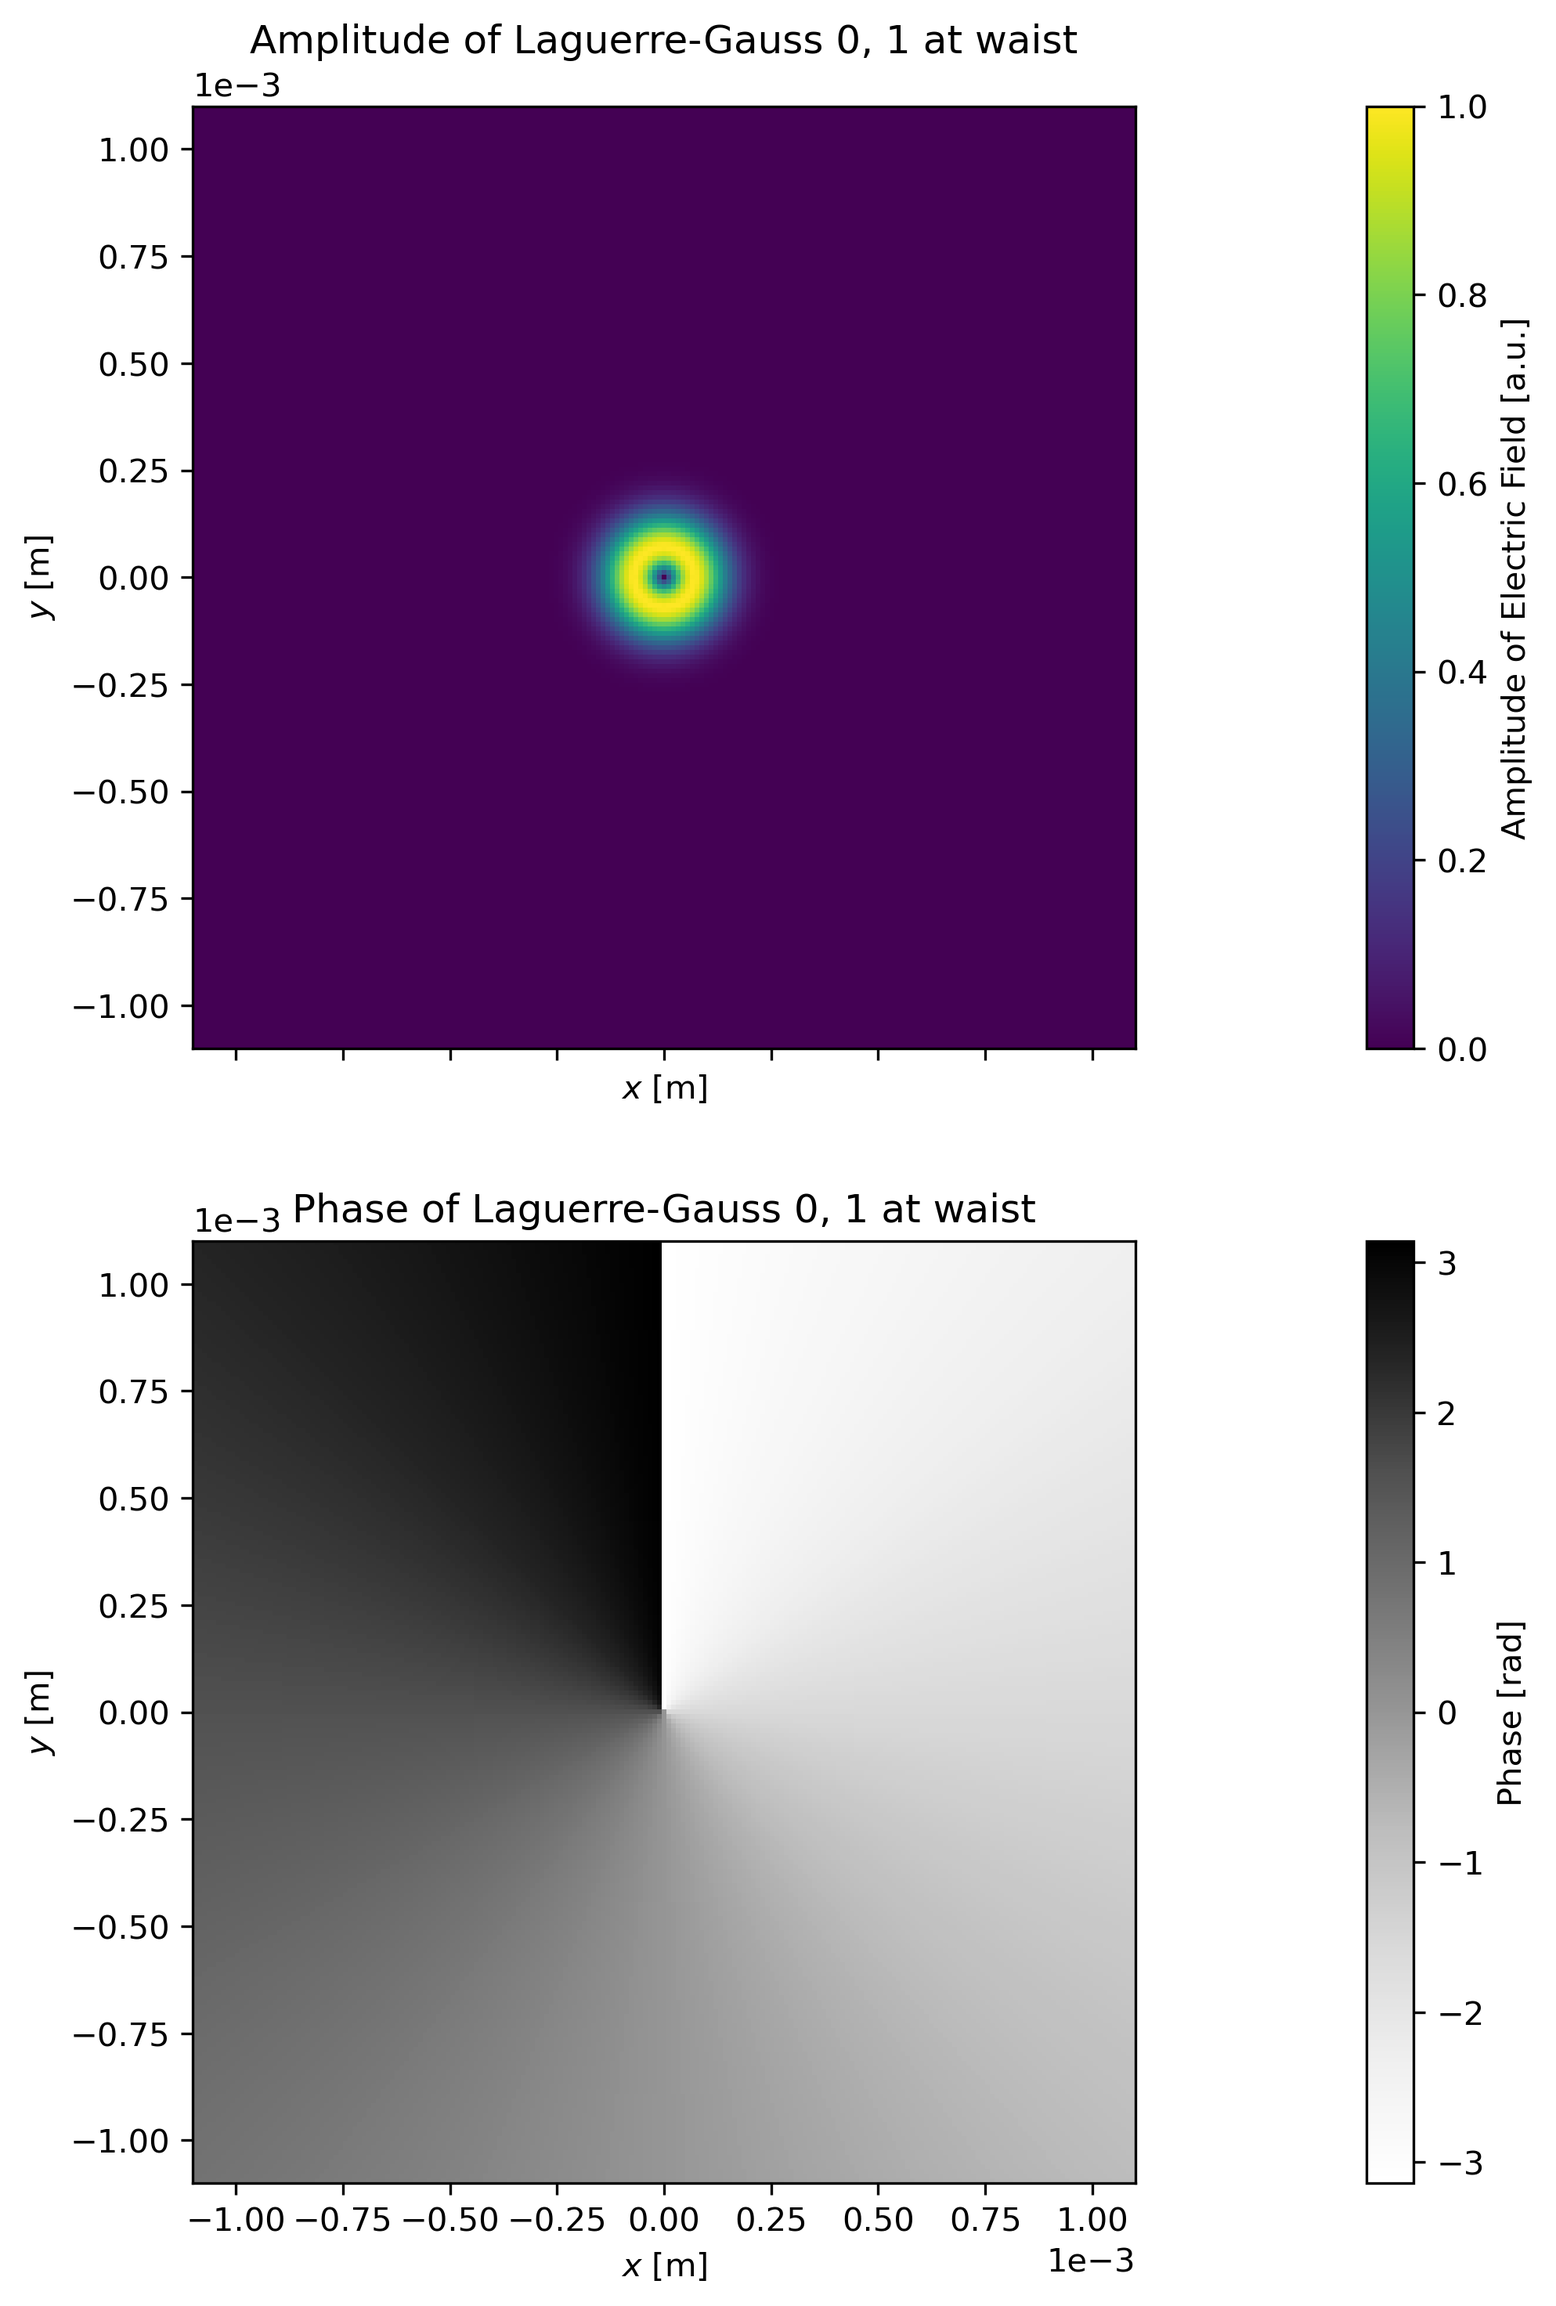
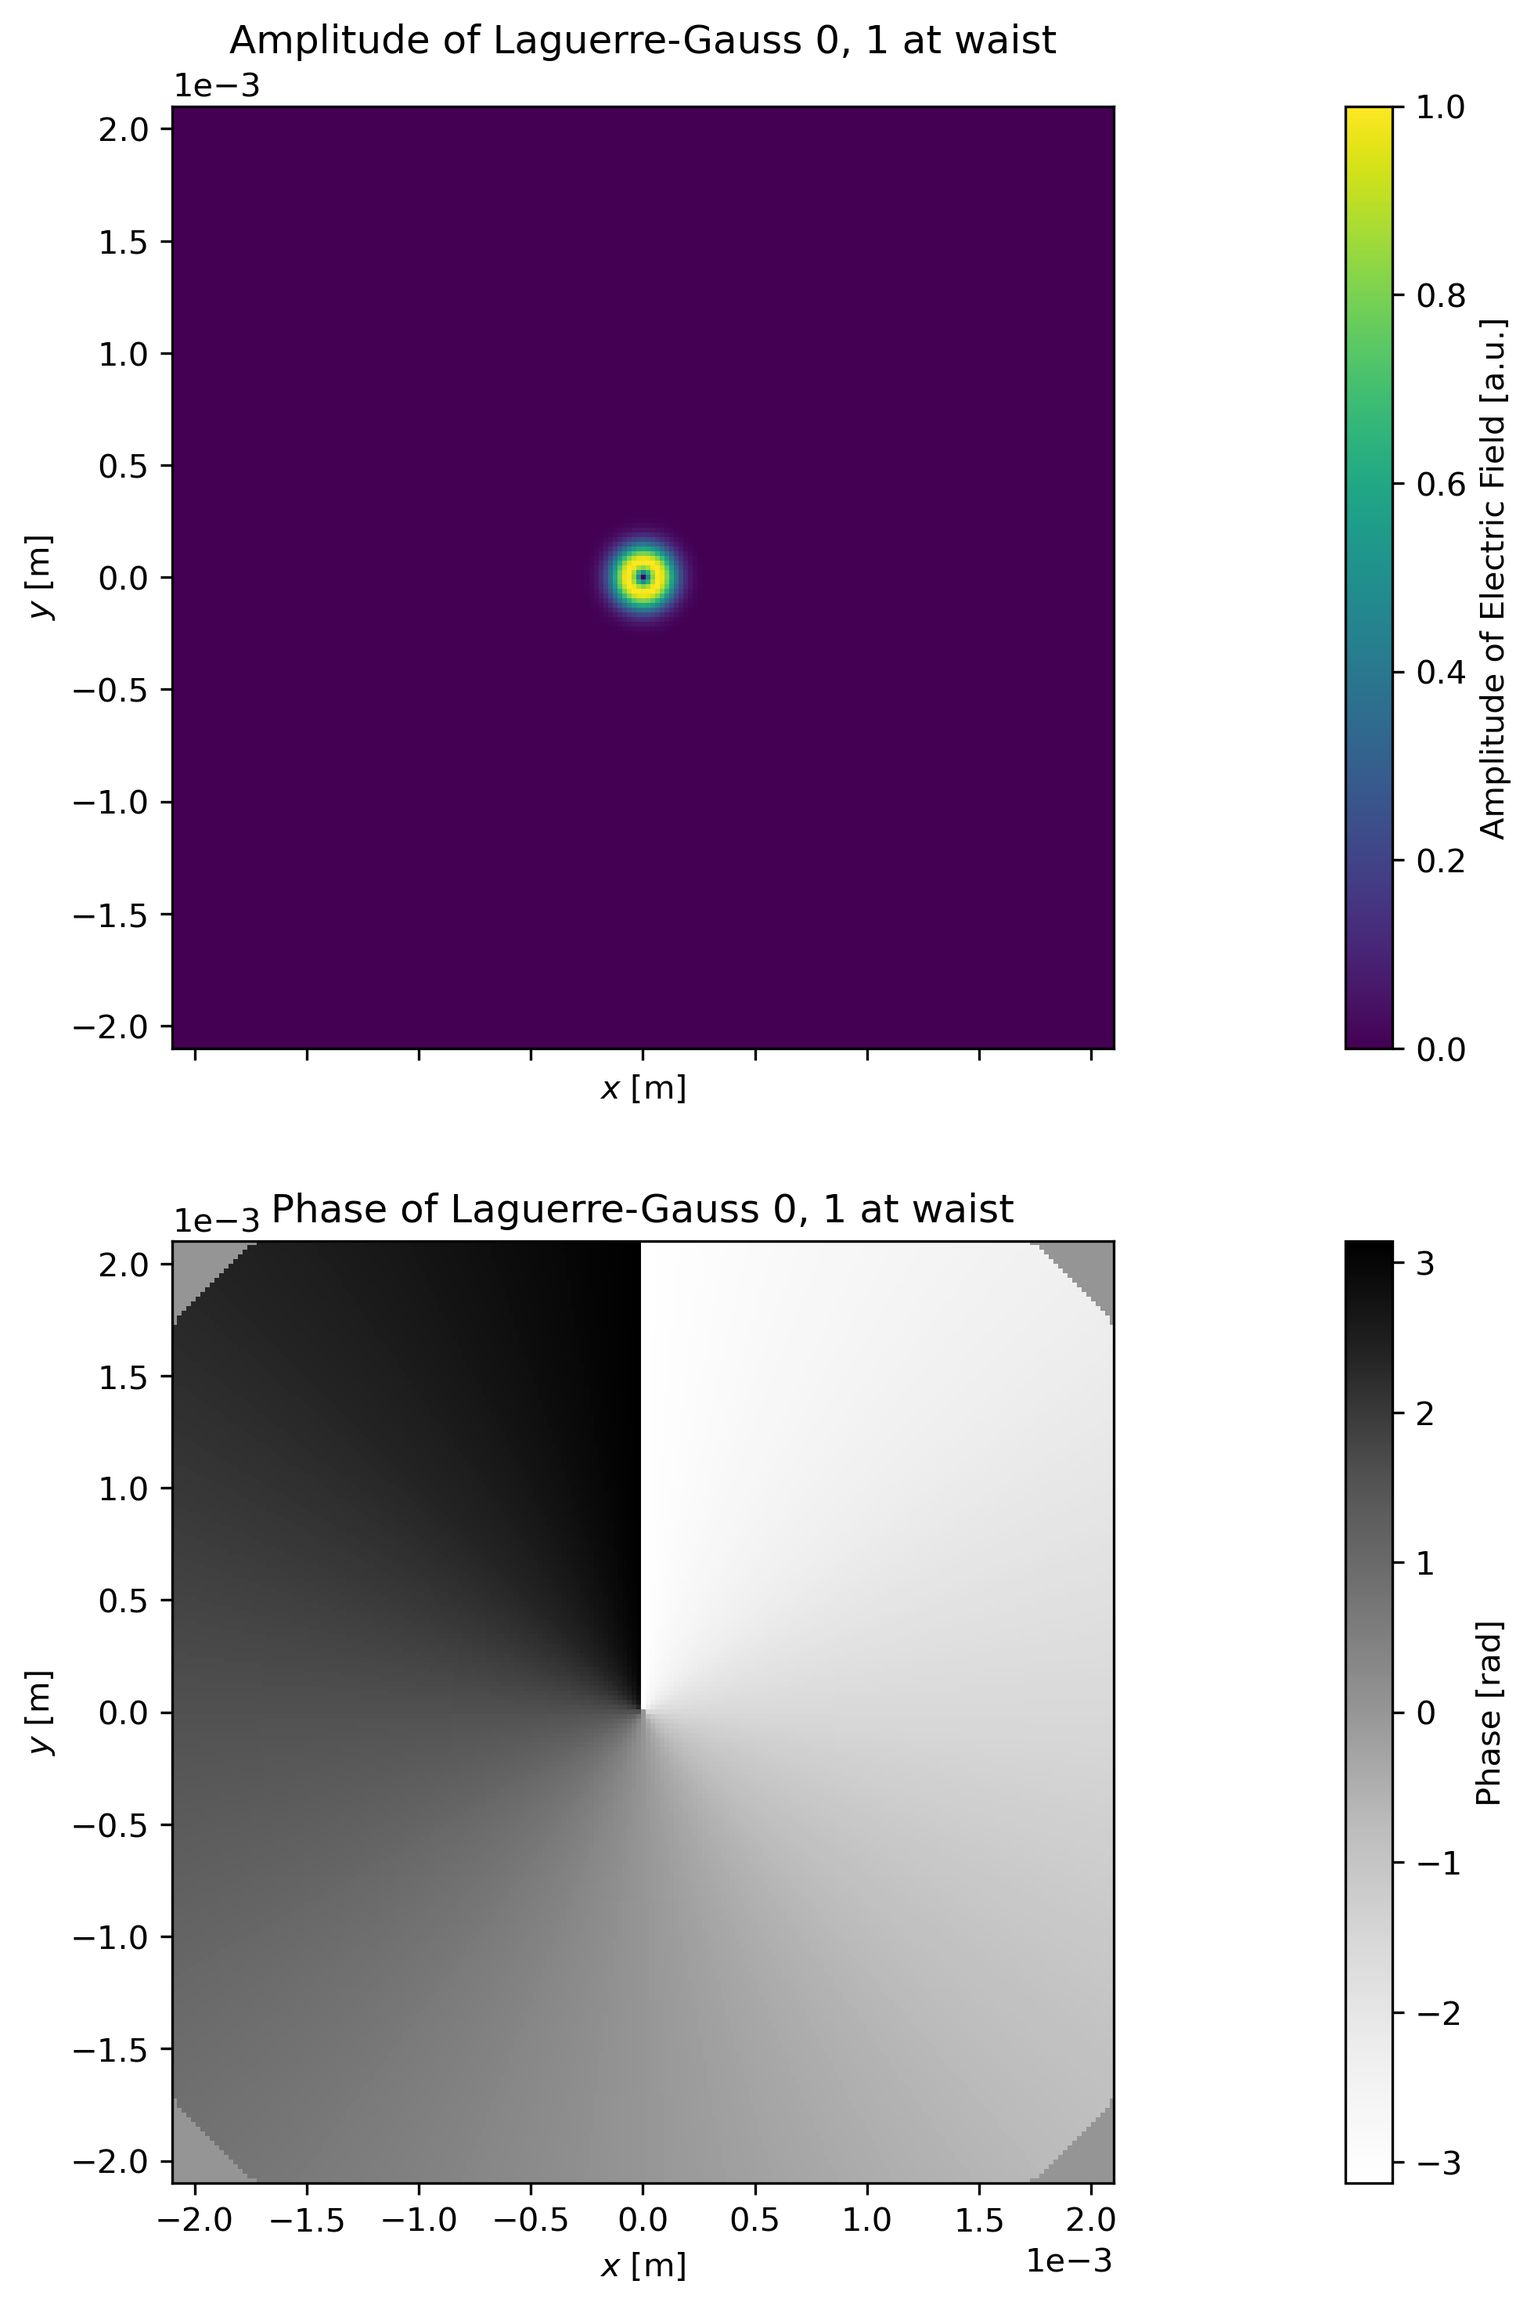
Generate animation of the LG beam propagating through the waist (amplitude and phase).

diff --git a/laguerre-gauss_through_waist.py b/laguerre-gauss_through_waist.py
@@ -26,12 +26,12 @@ if __name__ == "__main__":
     wavelength = 600e-3
     wavenumber = 2.0 * np.pi / wavelength
     waist_radius = 100e-6
-    radial_order = 1
-    azimuthal_order = 0
+    radial_order = 0
+    azimuthal_order = 2
 
     # sampling parameters
     n = 201
-    frame = 10 * waist_radius
+    frame = 20 * waist_radius
 
     window_x = 2.0 * (frame + waist_radius)
     x_min = -window_x / 2.0
@@ -73,10 +73,52 @@ if __name__ == "__main__":
     zR_factor = 10.0
     z_min = -zR_factor * rayleigh
     z_max = zR_factor * rayleigh
-    nz = 51
+    nz = 101
     z = np.linspace(z_min, z_max, nz)
+    
+    prop_amplitude = []
+    prop_phase = []
+    prop_real = []
+    
+    for iz in range (0, nz):
+        field = sources.laguerre_gauss(x, y, z[iz], wavelength, waist_radius, radial_order, azimuthal_order)
+        prop_amplitude.append(np.abs(field))
+        prop_phase.append(np.angle(field))
+        prop_real.append(np.real(field))
+        
+    fig, (ax1, ax2) = plt.subplots(2, 1, sharex = True, sharey = True, figsize = (10, 20))
+    im1 = ax1.imshow(prop_amplitude[0], extent = (x_min, x_max, x_min, x_max), cmap = cmap_amplitude, animated = True)
+    im2 = ax2.imshow(prop_phase[0], extent = (x_min, x_max, x_min, x_max), vmin = -np.pi, vmax= np.pi, cmap = cmap_phase, animated = True)
+    
+    cbar_amplitude = fig.colorbar(im1, ax = ax1)
+    cbar_amplitude.set_label('Amplitude of Electric Field [a.u.]')
+    cbar_phase = fig.colorbar(im2, ax = ax2)
+    cbar_phase.set_label('Phase [rad]')
+    
+    ax1.set_title('Amplitude of Laguerre-Gauss ' + str(radial_order) + ', ' + str(azimuthal_order))
+    ax2.set_title('Phase of Laguerre-Gauss ' + str(radial_order) + ', ' + str(azimuthal_order))
+    ax1.set_xlabel('$x$ [m]')
+    ax2.set_xlabel('$x$ [m]')
+    ax1.set_ylabel('$y$ [m]')
+    ax2.set_ylabel('$y$ [m]')
+    plt.ticklabel_format(axis = 'x', style = 'scientific', scilimits = (0,0))
+    plt.ticklabel_format(axis = 'y', style = 'scientific', scilimits = (0,0))
+    plt.tight_layout()
+    plt.show()
+    
+    
+    
+    def update_frame(i):
+        im1.set_array(prop_amplitude[i])
+        im2.set_array(prop_phase[i])
+        return im1, im2
+    
+    animation_amplitude_phase = animation.FuncAnimation(fig, update_frame, frames = nz, interval = 50, blit = True)
+    animation_amplitude_phase.save('results\\Animation ' + str(radial_order) + ', ' + str(azimuthal_order) + '.gif', writer = 'imagemagick')
+    
+    
 
-
+    
 
 
 
